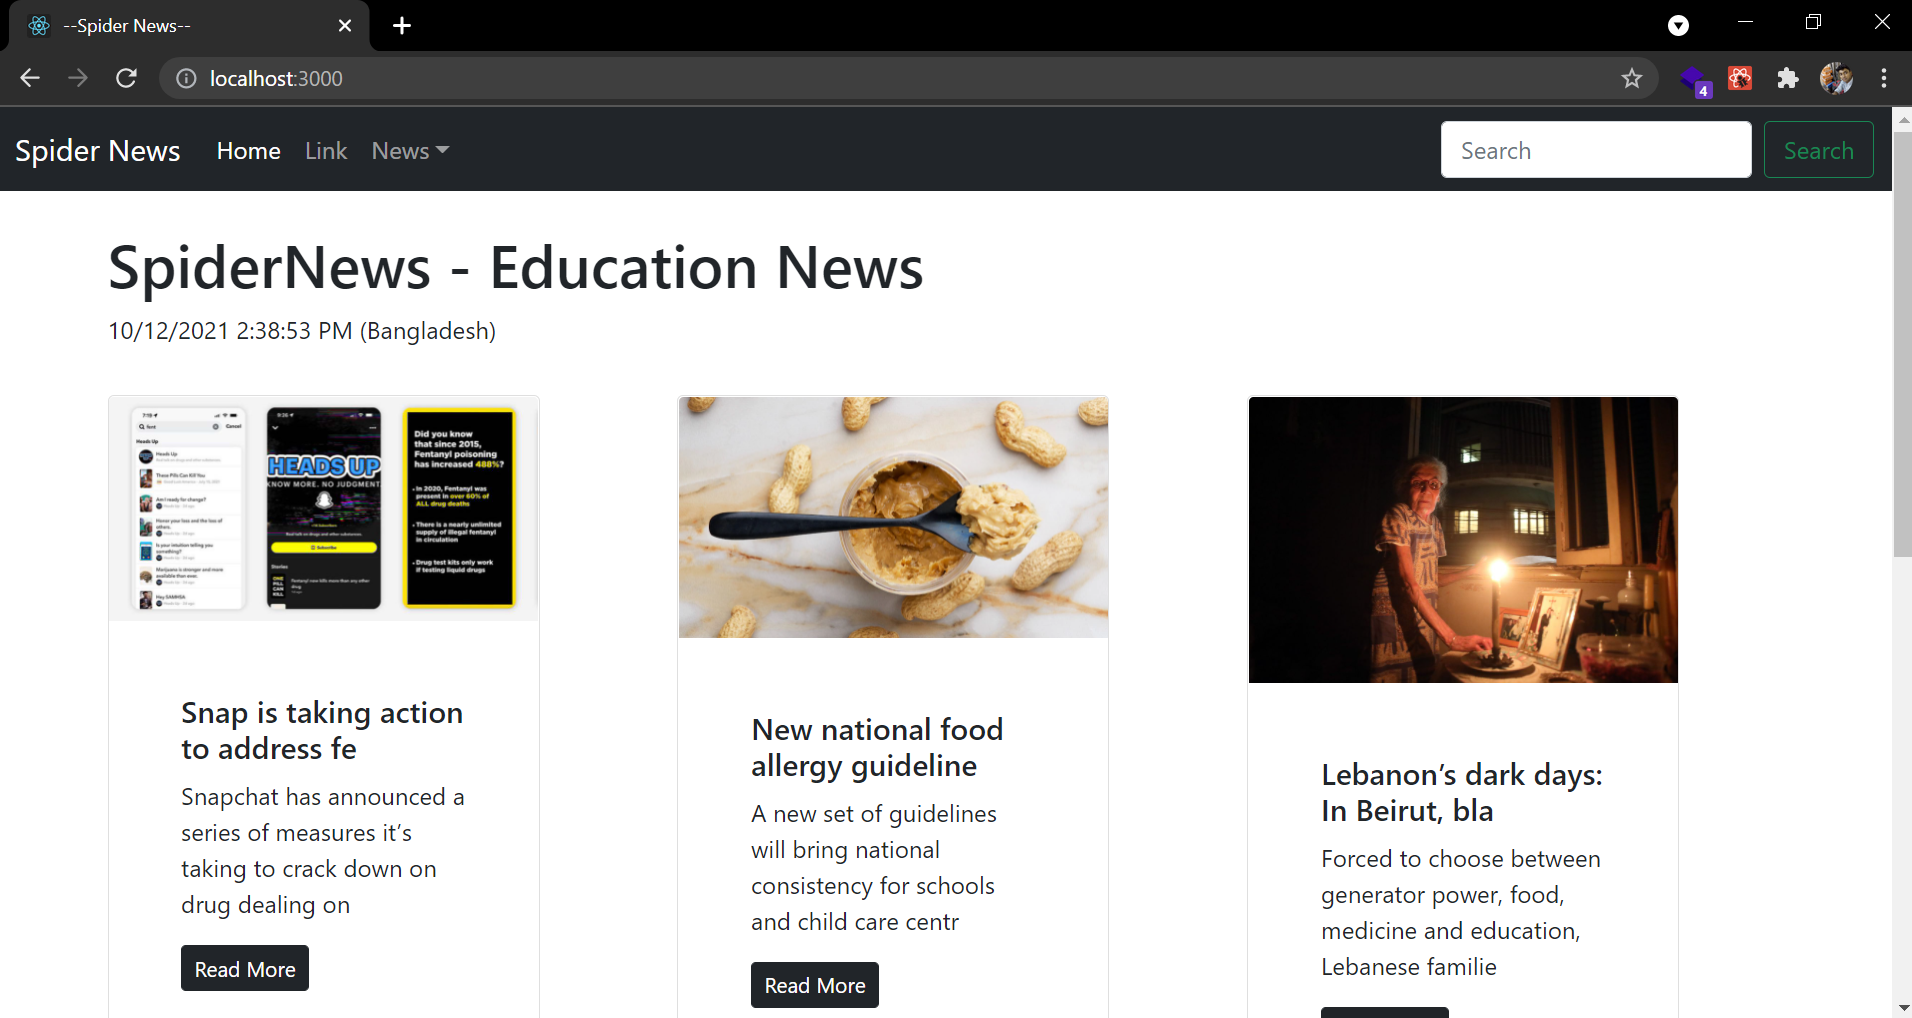
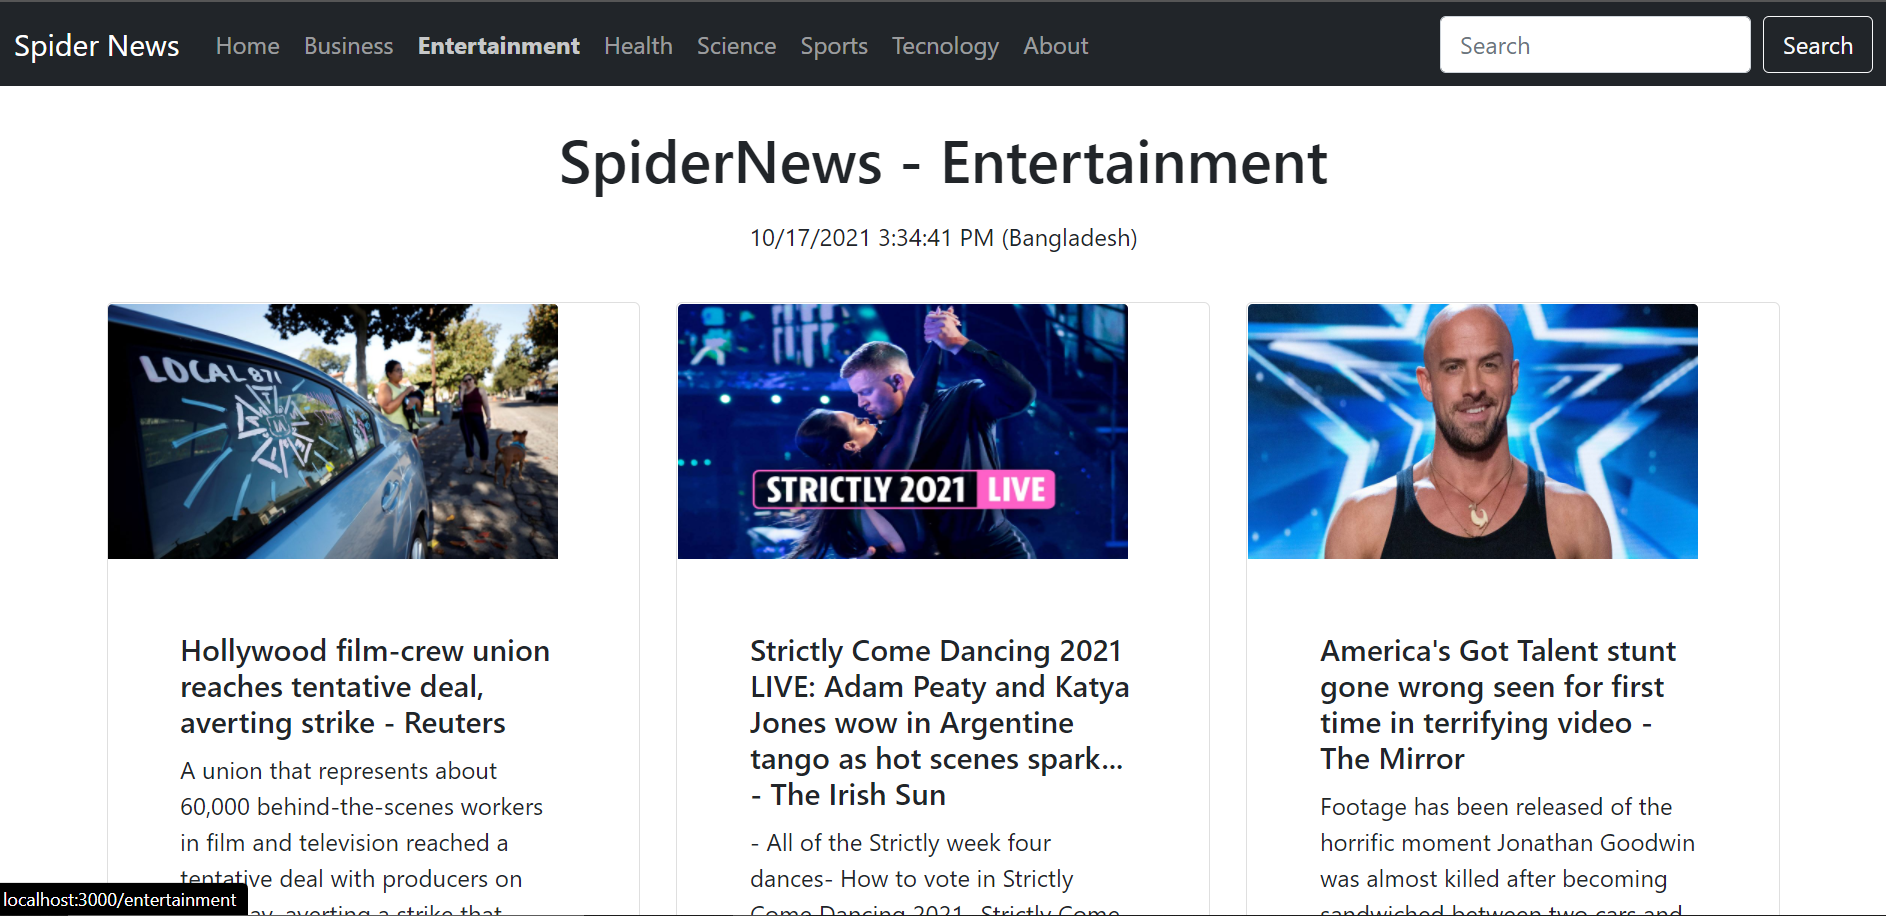
adding NavLink

diff --git a/src/components/Navbar.jsx b/src/components/Navbar.jsx
@@ -1,5 +1,10 @@
 import React, { Component } from "react";
 // import PropTypes from "prop-types";
+import {
+
+  NavLink
+} from "react-router-dom";
+
 
 export class Navbar extends Component {
   // static propTypes = {};
@@ -9,9 +14,9 @@ export class Navbar extends Component {
         <div className="NavbarHeader">
           <nav className="navbar navbar-expand-lg navbar-dark bg-dark fixed-top">
             <div className="container-fluid">
-              <a className="navbar-brand" href="/">
+              <NavLink className="navbar-brand" to="/">
                 Spider News
-              </a>
+              </NavLink>
               <button
                 className="navbar-toggler"
                 type="button"
@@ -29,44 +34,44 @@ export class Navbar extends Component {
               >
                 <ul className="navbar-nav me-auto mb-2 mb-lg-0">
                   <li className="nav-item">
-                    <a className="nav-link active" aria-current="page" href="/">
+                    <NavLink className="nav-link"  activeClassName="act" exact to="/">
                       Home
-                    </a>
+                    </NavLink>
                   </li>
                   <li className="nav-item">
-                    <a className="nav-link" href="/">
+                    <NavLink className="nav-link" activeClassName="act"  exact to="/business">
                     Business
-                    </a>
+                    </NavLink>
                   </li>
                   <li className="nav-item">
-                    <a className="nav-link" href="/">
+                    <NavLink className="nav-link" activeClassName="act" exact to="/entertainment">
                     Entertainment
-                    </a>
+                    </NavLink>
                   </li>
                   <li className="nav-item">
-                    <a className="nav-link" href="/">
+                    <NavLink className="nav-link" activeClassName="act" exact to="/health">
                     Health
-                    </a>
+                    </NavLink>
                   </li>
                   <li className="nav-item">
-                    <a className="nav-link" href="/">
+                    <NavLink className="nav-link" activeClassName="act" exact to="/science">
                       Science
-                    </a>
+                    </NavLink>
                   </li>
                   <li className="nav-item">
-                    <a className="nav-link" href="/">
+                    <NavLink className="nav-link" activeClassName="act" exact to="/sports">
                       Sports
-                    </a>
+                    </NavLink>
                   </li>
                   <li className="nav-item">
-                    <a className="nav-link" href="/">
+                    <NavLink className="nav-link" activeClassName="act" exact to="/technology">
                       Tecnology
-                    </a>
+                    </NavLink>
                   </li>
                   <li className="nav-item">
-                    <a className="nav-link" href="/">
+                    <NavLink className="nav-link" activeClassName="act" exact to="/about">
                       About
-                    </a>
+                    </NavLink>
                   </li>
                   
                 </ul>

diff --git a/src/App.js b/src/App.js
@@ -5,12 +5,12 @@ import './App.css';
 import React, { Component } from 'react'
 import Navbar from './components/Navbar';
 import News from './components/News';
+import About from './components/About'
 
 import {
   BrowserRouter as Router,
   Switch,
-  Route,
-  Link
+  Route
 } from "react-router-dom";
 
 
@@ -21,10 +21,22 @@ export default class App extends Component {
   render() {
     return (
       <div>
+        <Router>
         {/* My First Class based component {this.c} */}
         <Navbar/>
-        <News pageSize={6} country='' category='general' language='en'/>
-      </div>
+        
+        <Switch>
+          <Route exact path="/"><News key="general" pageSize={6} country='' category='general' language='en'/></Route>
+          <Route exact path="/business"><News key="business" pageSize={6} country='' category='business' language='en'/></Route>
+          <Route exact path="/entertainment"><News key="entertainment" pageSize={6} country='' category='entertainment' language='en'/></Route>
+          <Route exact path="/health"><News key="health" pageSize={6} country='' category='health' language='en'/></Route>
+          <Route exact path="/science"><News key="science" pageSize={6} country='' category='science' language='en'/></Route>
+          <Route exact path="/sports"><News key="sports" pageSize={6} country='' category='sports' language='en'/></Route>
+          <Route exact path="/technology"><News key="technology" pageSize={6} country='' category='technology' language='en'/></Route>
+          <Route exact path="/about"><About/></Route>
+        </Switch>
+        </Router>
+        </div>
     )
   }
 }

diff --git a/src/components/News.js b/src/components/News.js
@@ -6,7 +6,8 @@ import Spiner from './Spiner'
 export class News extends Component {
 static defaultProps = {
   country:'',
-  pageSize:6,
+  pageSize: 6,
+  category: 'general'
 }
   
   static propTypes = {
@@ -78,7 +79,7 @@ handleNextClick = async ()=>{
         {!this.state.loading && this.state.articles.map((element)=>{
 
           return <div className="col-md-4" key={element.url}>
-          <NewsItem title={element.title?element.title.slice(0,30):""} description ={element.description?element.description.slice(0,88) : ""} imgUrl={!element.urlToImage?"https://media.istockphoto.com/photos/news-sign-on-wall-picture-id1294294064?b=1&k=20&m=1294294064&s=170667a&w=0&h=2A1-Cr76gN_iVS0nYS0AY2ozi9CEuNLt3DMRV__LxnY=":element.urlToImage} newsUrl={element.url}/>
+          <NewsItem title={element.title?element.title:""} description ={element.description?element.description: ""} imgUrl={!element.urlToImage?"https://media.istockphoto.com/photos/news-sign-on-wall-picture-id1294294064?b=1&k=20&m=1294294064&s=170667a&w=0&h=2A1-Cr76gN_iVS0nYS0AY2ozi9CEuNLt3DMRV__LxnY=":element.urlToImage} newsUrl={element.url}/>
         </div>
         })} 
           

diff --git a/src/components/NewsItem.js b/src/components/NewsItem.js
@@ -12,7 +12,7 @@ export class NewsItem extends Component {
         <div className="card my-3">
             <img src={imgUrl} className="card-img-top img" alt="..." />
           <div className="card-body  p-5">
-            <h5 className="card-title">{title}...</h5>
+            <h5 className="card-title">{title}</h5>
             <p className="card-text">
               {description}...
             </p>

diff --git a/src/components/About.jsx b/src/components/About.jsx
@@ -1,0 +1,13 @@
+import React, { Component } from 'react'
+
+export class About extends Component {
+    render() {
+        return (
+            <div style={{marginTop:"90px"}}>
+               <h1> About </h1>          
+            </div>
+        )
+    }
+}
+
+export default About

diff --git a/src/App.css b/src/App.css
@@ -6,6 +6,10 @@
   width: 300px;
   height: 170px;
 }
+.act{
+  font-weight: 700;
+  
+}
 /* .card-title{
   height: 48px;
 } */
